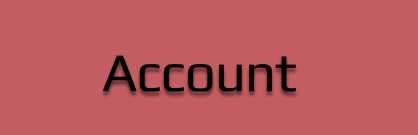
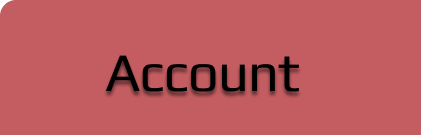
update forms

Changed region(s): [[0.2488, 0.4148, 0.7153, 0.7111], [0.0, 0.0, 0.0311, 0.0889]]

diff --git a/Forms/FrmSettings.Designer.cs b/Forms/FrmSettings.Designer.cs
@@ -32,36 +32,54 @@
             btnSettingsAccount = new Panel();
             btnSettingsBackup = new Panel();
             btnSettingsAbout = new Panel();
+            btnCloseMainContextMenu = new Panel();
             SuspendLayout();
             // 
             // btnSettingsAccount
             // 
             btnSettingsAccount.BackColor = Color.Transparent;
+            btnSettingsAccount.BackgroundImage = Properties.Resources.account__selected_;
             btnSettingsAccount.BackgroundImageLayout = ImageLayout.Center;
+            btnSettingsAccount.Cursor = Cursors.Hand;
             btnSettingsAccount.Location = new Point(52, 70);
             btnSettingsAccount.Name = "btnSettingsAccount";
             btnSettingsAccount.Size = new Size(419, 133);
             btnSettingsAccount.TabIndex = 0;
+            btnSettingsAccount.Click += BtnSettingsAccount_Click;
             // 
             // btnSettingsBackup
             // 
             btnSettingsBackup.BackColor = Color.Transparent;
             btnSettingsBackup.BackgroundImage = Properties.Resources.Backup;
             btnSettingsBackup.BackgroundImageLayout = ImageLayout.Center;
+            btnSettingsBackup.Cursor = Cursors.Hand;
             btnSettingsBackup.Location = new Point(52, 203);
             btnSettingsBackup.Name = "btnSettingsBackup";
             btnSettingsBackup.Size = new Size(419, 135);
             btnSettingsBackup.TabIndex = 1;
+            btnSettingsBackup.Click += BtnSettingsBackup_Click;
             // 
             // btnSettingsAbout
             // 
             btnSettingsAbout.BackColor = Color.Transparent;
             btnSettingsAbout.BackgroundImage = Properties.Resources.About_Us;
             btnSettingsAbout.BackgroundImageLayout = ImageLayout.Center;
+            btnSettingsAbout.Cursor = Cursors.Hand;
             btnSettingsAbout.Location = new Point(52, 338);
             btnSettingsAbout.Name = "btnSettingsAbout";
             btnSettingsAbout.Size = new Size(419, 135);
             btnSettingsAbout.TabIndex = 2;
+            btnSettingsAbout.Click += BtnSettingsAbout_Click;
+            // 
+            // btnCloseMainContextMenu
+            // 
+            btnCloseMainContextMenu.BackColor = Color.Transparent;
+            btnCloseMainContextMenu.Cursor = Cursors.Hand;
+            btnCloseMainContextMenu.Location = new Point(1515, 41);
+            btnCloseMainContextMenu.Name = "btnCloseMainContextMenu";
+            btnCloseMainContextMenu.Size = new Size(62, 61);
+            btnCloseMainContextMenu.TabIndex = 3;
+            btnCloseMainContextMenu.Click += BtnCloseMainContextMenu_Click;
             // 
             // FrmSettings
             // 
@@ -70,6 +88,7 @@
             BackgroundImage = Properties.Resources.Settings_Screen;
             BackgroundImageLayout = ImageLayout.Center;
             ClientSize = new Size(1600, 941);
+            Controls.Add(btnCloseMainContextMenu);
             Controls.Add(btnSettingsAbout);
             Controls.Add(btnSettingsBackup);
             Controls.Add(btnSettingsAccount);
@@ -88,5 +107,6 @@
         private Panel btnSettingsAccount;
         private Panel btnSettingsBackup;
         private Panel btnSettingsAbout;
+        private Panel btnCloseMainContextMenu;
     }
 }

diff --git a/Forms/FrmSettings.cs b/Forms/FrmSettings.cs
@@ -8,5 +8,32 @@
             InitializeComponent();
             this.ctx = ctx;
         }
+
+        private void BtnSettingsAccount_Click(object sender, EventArgs e)
+        {
+            btnSettingsAccount.BackgroundImage = Properties.Resources.account__selected_;
+            btnSettingsBackup.BackgroundImage = Properties.Resources.Backup;
+            btnSettingsAbout.BackgroundImage = Properties.Resources.About_Us;
+        }
+
+        private void BtnSettingsBackup_Click(object sender, EventArgs e)
+        {
+            btnSettingsBackup.BackgroundImage = Properties.Resources.backup__selected_;
+            btnSettingsAccount.BackgroundImage = Properties.Resources.Account;
+            btnSettingsAbout.BackgroundImage = Properties.Resources.About_Us;
+        }
+
+        private void BtnSettingsAbout_Click(object sender, EventArgs e)
+        {
+            btnSettingsAbout.BackgroundImage = Properties.Resources.About_us__selected_;
+            btnSettingsAccount.BackgroundImage = Properties.Resources.Account;
+            btnSettingsBackup.BackgroundImage = Properties.Resources.Backup;
+        }
+
+        private void BtnCloseMainContextMenu_Click(object sender, EventArgs e)
+        {
+            var mainForm = new FrmMain(ctx);
+            ctx.SwitchTo(mainForm);
+        }
     }
 }

diff --git a/Forms/FrmMain.cs b/Forms/FrmMain.cs
@@ -60,5 +60,11 @@ namespace NekoKeep.Forms
             var profile = new FrmProfile(ctx);
             ctx.SwitchTo(profile);
         }
+
+        private void BtnCtxMain_Settings_Click(object sender, EventArgs e)
+        {
+            var settingsForm = new FrmSettings(ctx);
+            ctx.SwitchTo(settingsForm);
+        }
     }
 }

diff --git a/Forms/FrmMain.Designer.cs b/Forms/FrmMain.Designer.cs
@@ -73,6 +73,7 @@
             btnCtxMain_Settings.Name = "btnCtxMain_Settings";
             btnCtxMain_Settings.Size = new Size(192, 60);
             btnCtxMain_Settings.TabIndex = 2;
+            btnCtxMain_Settings.Click += BtnCtxMain_Settings_Click;
             // 
             // btnCtxMain_Logout
             // 

diff --git a/Program.cs b/Program.cs
@@ -23,7 +23,7 @@ namespace NekoKeep
             }
 
             var ctx = new AppContext();
-            var login = new FrmSettings(ctx);
+            var login = new FrmOnboarding(ctx);
             ctx.SwitchTo(login);
             Application.Run(ctx);
         }
